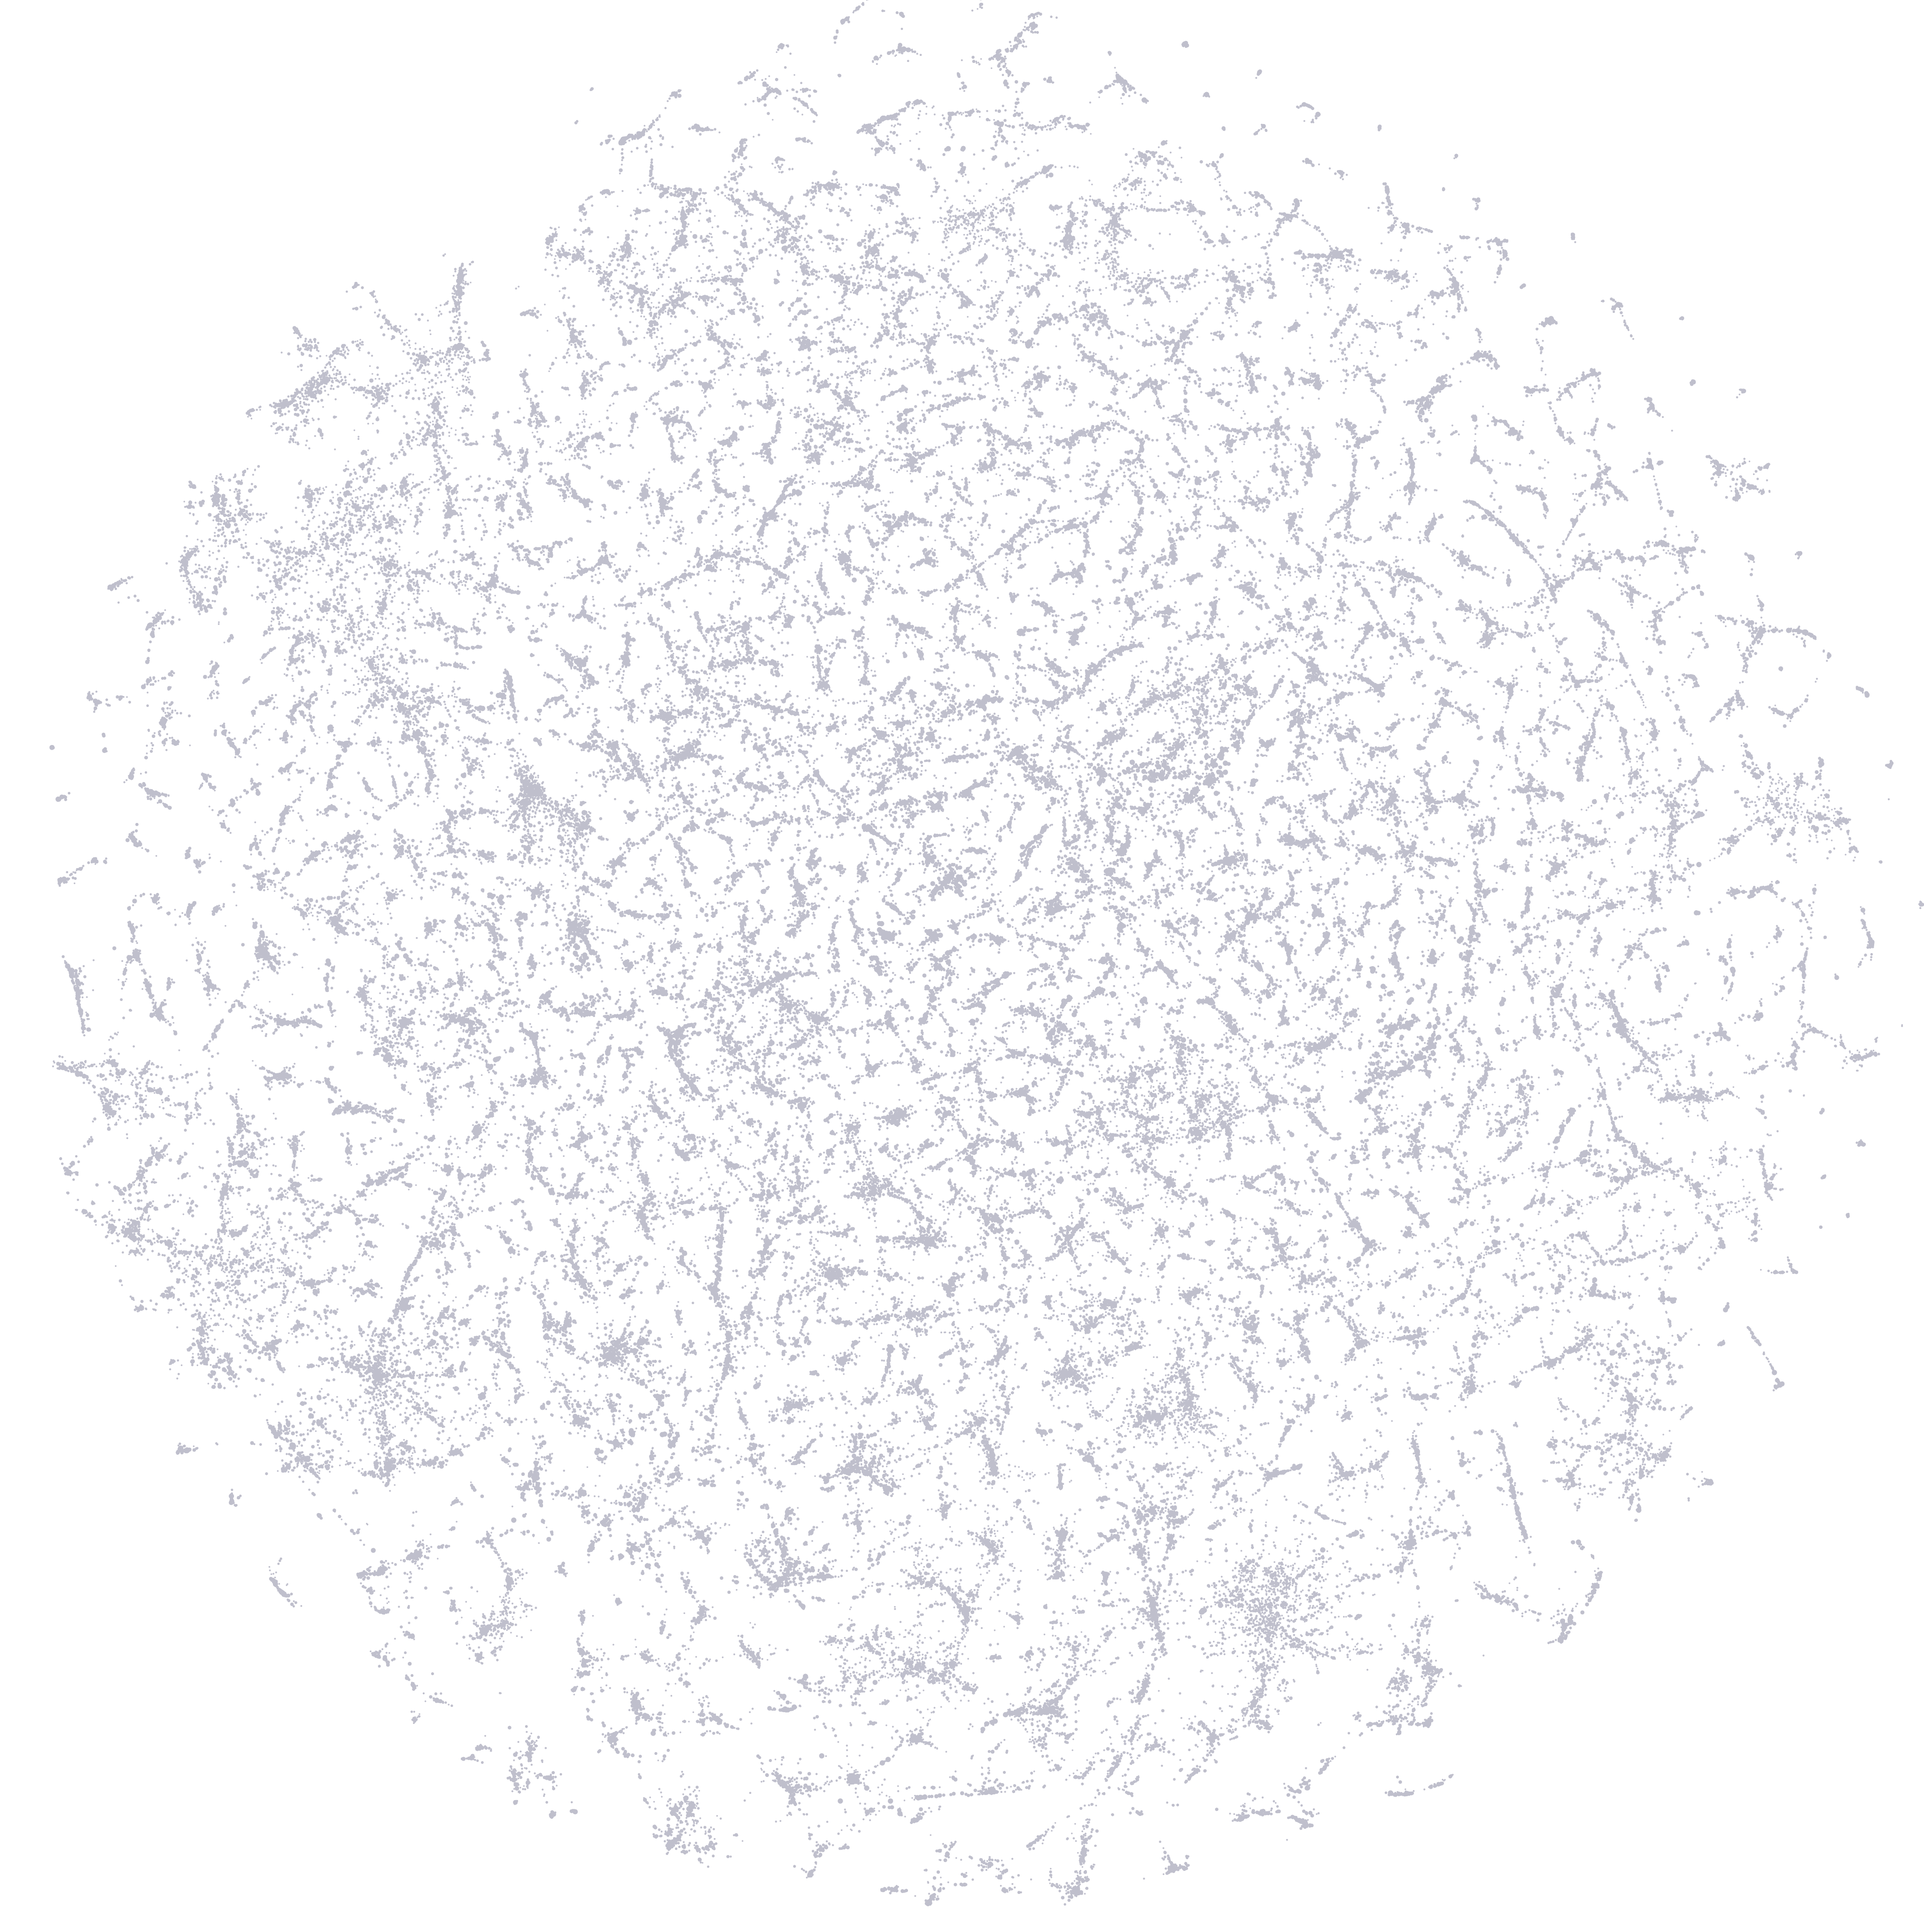
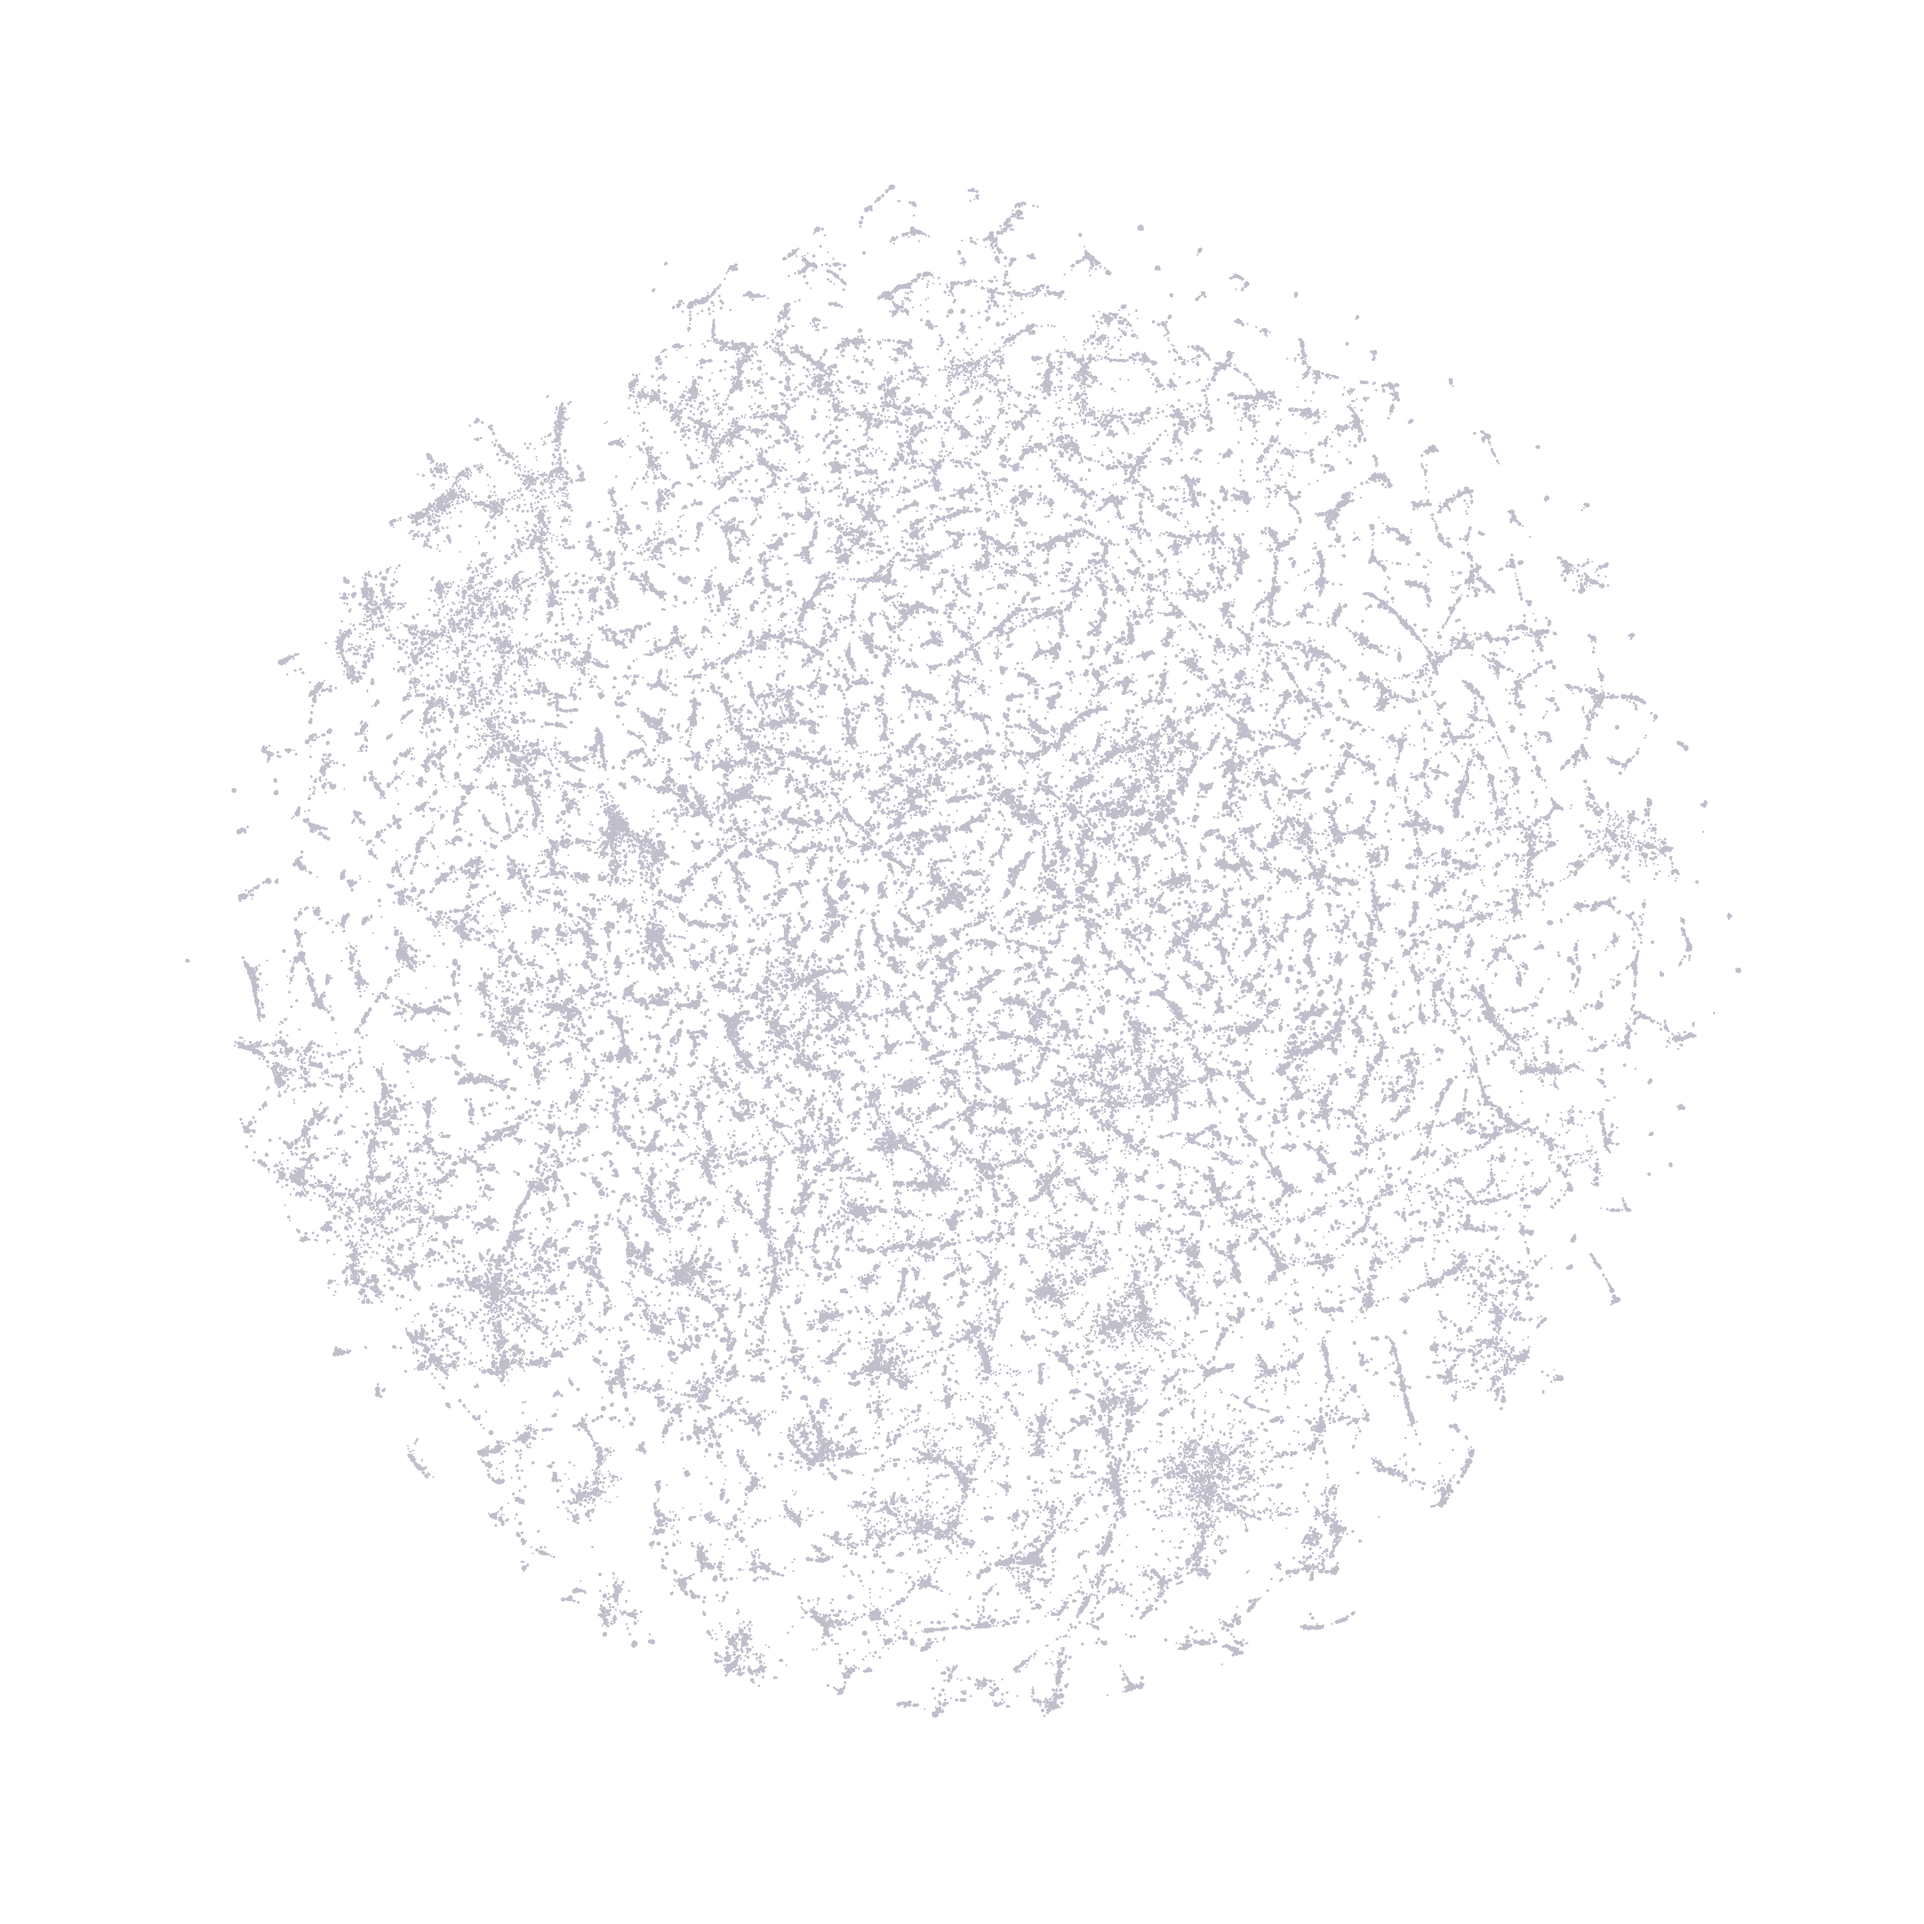
clean up SVG visualization; nodes are links to conceptnet.io

diff --git a/viz/tilemap.js b/viz/tilemap.js
@@ -1,5 +1,6 @@
 var map = L.map('map', {
     crs: L.CRS.Simple,
+    renderer: L.svg()
 });
 
 var url_base = "./json/";
@@ -9,25 +10,28 @@ var tiles = L.tileLayer(
     {
         minZoom: 0,
         maxZoom: 10,
-        maxNativeZoom: 7,
-        pane: "markerPane",
+        maxNativeZoom: 9,
+        pane: "overlayPane",
         detectRetina: true
     }
 );
-var rs = 102.5;
+var rs = 128;
 var rasterLayer = L.imageOverlay("raster.png", [[rs, -rs], [-rs, rs]], {
     opacity: 0.25
 });
 
 var updateZoom = function() {
-    if (map.getZoom() >= 4 && map.hasLayer(rasterLayer)) {
+    if (map.getZoom() >= 5 && map.hasLayer(rasterLayer)) {
         map.removeLayer(rasterLayer);
     }
-    if (map.getZoom() <= 3 && !map.hasLayer(rasterLayer)) {
+    if (map.getZoom() <= 4 && !map.hasLayer(rasterLayer)) {
         map.addLayer(rasterLayer);
     }
     var z = map.getZoom();
-    if (z >= 3) {
+    if (z >= 4) {
+        rasterLayer.setOpacity(0.15);
+    }
+    else if (z == 3) {
         rasterLayer.setOpacity(0.25);
     }
     else if (z == 2) {
@@ -48,24 +52,29 @@ var svgElement = (name) => {
 tiles.populateTile = (tile, coords, tileSize, data) => {
     tile.setAttribute('viewBox', '0 0 512 512');
     for (const node of data) {
-        var circle = svgElement('circle');
-        var size = node.textSize;
-        circle.setAttribute('cx', node.x);
-        circle.setAttribute('cy', node.y);
-        circle.setAttribute('r', size / 8 + 0.2);
-        circle.setAttribute('class', "node lang-" + node.lang);
-        tile.appendChild(circle);
+        if (node.textSize >= 4) {
+            var circle = svgElement('circle');
+            var size = node.textSize;
+            circle.setAttribute('cx', node.x);
+            circle.setAttribute('cy', node.y);
+            circle.setAttribute('r', size / 8 + 0.2);
+            circle.setAttribute('class', "node lang-" + node.lang);
+            tile.appendChild(circle);
+        }
     }
     for (const node of data) {
         if (node.showLabel && node.textSize >= 8) {
             var size = node.textSize;
+            var anchor = svgElement('a');
+            anchor.setAttribute('href', `http://conceptnet.io${node.uri}`);
             var label = svgElement('text');
-            label.setAttribute('class', "label lang-" + node.lang);
-            label.setAttribute('style', `font-size: ${node.textSize}; stroke-width: ${node.textSize / 8 + 2}`);
+            label.setAttribute('class', "label leaflet-interactive lang-" + node.lang);
+            label.setAttribute('style', `font-size: ${node.textSize}px; stroke-width: ${node.textSize / 8 + 2}px`);
             label.innerHTML = node.label;
             label.setAttribute('x', node.x + node.textSize / 4 + 0.2);
             label.setAttribute('y', node.y + node.textSize * 5 / 8 + 0.2);
-            tile.appendChild(label);
+            anchor.appendChild(label);
+            tile.appendChild(anchor);
         }
     }
     tile.style.width = tileSize * 2;

diff --git a/viz/map.html b/viz/map.html
@@ -8,7 +8,7 @@
 
     <link rel="stylesheet" href="https://unpkg.com/leaflet@1.0.3/dist/leaflet.css" integrity="sha512-07I2e+7D8p6he1SIM+1twR5TIrhUQn9+I6yjqD53JQjFiMf8EtC93ty0/5vJTZGF8aAocvHYNEDJajGdNx1IsQ==" crossorigin=""/>
     <script src="https://unpkg.com/leaflet@1.0.3/dist/leaflet.js" integrity="sha512-A7vV8IFfih/D732iSSKi20u/ooOfj/AGehOKq0f4vLT1Zr2Y+RX7C+w8A1gaSasGtRUZpF/NZgzSAu4/Gc41Lg==" crossorigin=""></script>
-    <script src="https://unpkg.com/babel-standalone@6/babel.min.js"></script>
+    <script src="https://unpkg.com/babel-standalone@6.24.0/babel.min.js"></script>
     <script src="http://www.mapbox.com/mapbox.js/assets/leaflet-hash.js"></script>
 
 	<style>
@@ -30,6 +30,10 @@
             font-family: "Noto Sans", sans-serif;
             stroke: white;
             paint-order: stroke;
+            pointer-events: auto;
+        }
+        .label:hover {
+            stroke: #cfc;
         }
 
         .lang-en { fill: #05a; }
@@ -39,8 +43,8 @@
         .lang-it { fill: #8d8; }
         .lang-ru { fill: #a50; }
         .lang-pt { fill: #080; }
-        .lang-ja { fill: #f33; }
-        .lang-zh { fill: #a10; }
+        .lang-ja { fill: #f55; }
+        .lang-zh { fill: #e00; }
         .lang-nl { fill: #e70; }
 
 	</style>

diff --git a/viz/leaflet.html b/viz/leaflet.html
@@ -39,7 +39,7 @@
         {
             minZoom: 0,
             maxZoom: 10,
-            maxNativeZoom: 7,
+            maxNativeZoom: 9,
             pane: "markerPane",
             detectRetina: true
         }

diff --git a/viz/conceptnet_viz/tilemap.py b/viz/conceptnet_viz/tilemap.py
@@ -41,7 +41,7 @@ def raster_coordinate(coord):
 
 def map_to_tile_coordinate(coord, z):
     x, y = global_coordinate(coord)
-    tile_size = 256 >> z
+    tile_size = 2 ** (8 - z)
     tile_x = int(math.floor(x / tile_size))
     tile_y = int(math.floor(y / tile_size))
     offset_x = x - (tile_x * tile_size)
@@ -51,7 +51,7 @@ def map_to_tile_coordinate(coord, z):
     return (tile_x, tile_y, local_x, local_y)
 
 
-def draw_tsne(tsne_filename, degree_filename, json_out_path, png_out_path, render_png=False, depth=8):
+def draw_tsne(tsne_filename, degree_filename, json_out_path, png_out_path, render_png=False, depth=10):
     tsne_frame = load_hdf(tsne_filename)
     json_out_path = pathlib.Path(json_out_path)
     concept_degrees = get_concept_degrees(degree_filename)
@@ -71,23 +71,23 @@ def draw_tsne(tsne_filename, degree_filename, json_out_path, png_out_path, rende
         deg = min(10000, concept_degrees.get(uri, 0))
         coord = tsne_frame.iloc[i, :2]
         lang, label = language_and_word(uri)
-        nodes.append((deg, coord, lang, label))
+        nodes.append((deg, coord, lang, label, uri))
 
     print('Creating nodes')
     nodes.sort(key=itemgetter(0), reverse=True)
 
     surface = cairo.ImageSurface(cairo.FORMAT_ARGB32, 4096, 4096)
     ctx = cairo.Context(surface)
-    ctx.scale(1/4, 1/4)
     ctx.set_source_rgba(1, 1, 1, 1)
     ctx.paint()
 
-    for deg, coord, lang, label in nodes:
+    for deg, coord, lang, label, uri in nodes:
         for z in range(depth):
-            tile_size = 256 >> z
+            tile_size = 2 ** (8 - z)
             if deg >= tile_size:  # no reason these should be comparable, just a convenient cutoff
                 tile_x, tile_y, local_x, local_y = map_to_tile_coordinate(coord, z)
                 text_size = deg ** .5 * (2 ** (z / 2 - 3))
+                text_size = min(24, text_size)
                 raster_text_size = text_size * tile_size / 16
 
                 use_label = False
@@ -111,6 +111,7 @@ def draw_tsne(tsne_filename, degree_filename, json_out_path, png_out_path, rende
                     'deg': deg,
                     'lang': lang,
                     'label': label,
+                    'uri': uri,
                     'showLabel': use_label,
                     'textSize': round(text_size, 2)
                 })
@@ -119,7 +120,7 @@ def draw_tsne(tsne_filename, degree_filename, json_out_path, png_out_path, rende
             ctx.new_path()
             ctx.set_source_rgba(.75, .75, .8, 1)
             cx, cy = raster_coordinate(coord)
-            ctx.arc(cx, cy, min(deg, 1000) ** .25 * 4, 0, TAU)
+            ctx.arc(cx, cy, min(deg, 1000) ** .25, 0, TAU)
             ctx.fill()
 
     if render_png:
